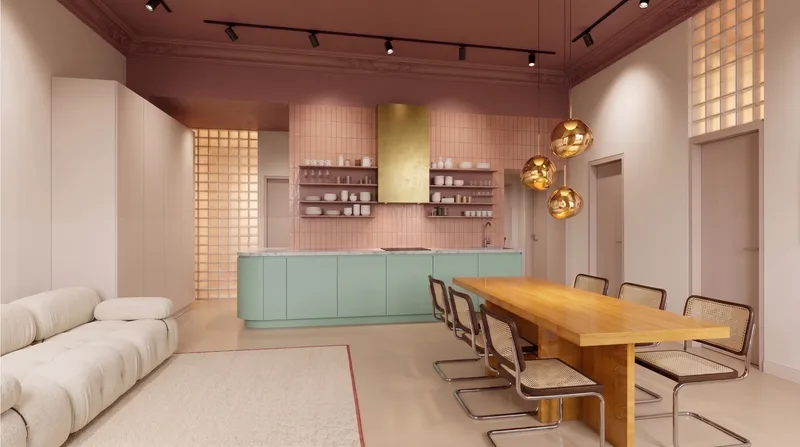
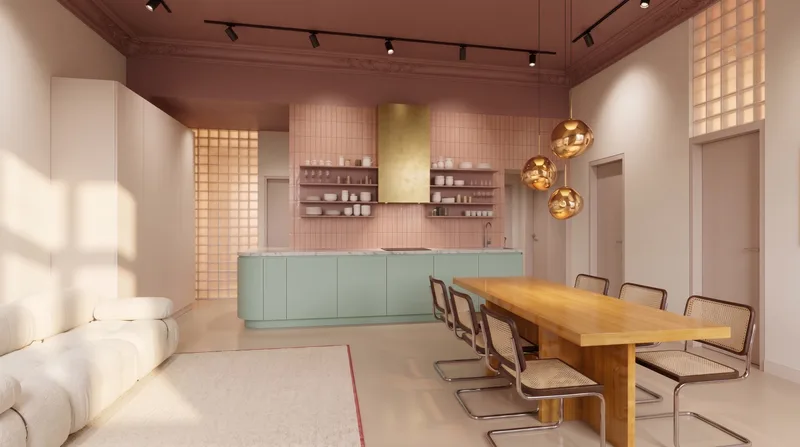
Swap Brass Living, Ferienwohnung, and Alpenkantine assets for Kodak Portra grades.

diff --git a/biig-interior/index.html b/biig-interior/index.html
@@ -5029,7 +5029,7 @@
             ],
             images: [
               "../assets/interior/Pannierstr11-260830-BIIG-VIS-01_b.jpg",
-              "../assets/interior/Pannierstr11-260903-BIIG-VIS-02_c.jpg",
+              "../assets/interior/Pannierstr11-260903-BIIG-VIS-02_c.jpg?v=kodak",
             ],
           },
           zweihaeuser: {
@@ -5407,7 +5407,7 @@
               "../assets/interior/geisenheim.jpeg",
               "../assets/interior/geisenheim-gedecktertisch.png",
               "../assets/interior/geisenheim-sundowner.png",
-              "../assets/interior/alpenkantine-V01.png?v=2",
+              "../assets/interior/alpenkantine-V01.png?v=kodak",
               "../assets/interior/alpenkantine-V2.png",
             ],
           },
@@ -5803,7 +5803,7 @@
             captionEn: "Hair salon, Berlin-Kreuzberg 2027",
           },
           {
-            src: "../assets/interior/Pannierstr11-260903-BIIG-VIS-02_c.jpg",
+            src: "../assets/interior/Pannierstr11-260903-BIIG-VIS-02_c.jpg?v=kodak",
             altDe: "Ferienwohnung mit Stuck, Licht und behaglichem Interior",
             altEn: "Holiday apartment with stucco, light, and a cozy interior",
             captionDe: "Ferienwohnung, Berlin-Neukölln 2027",
@@ -5845,7 +5845,7 @@
             captionEn: "Hamburg Elbchaussee, apartment visual",
           },
           {
-            src: "../assets/interior/BrassLiving-walkincloset01.png",
+            src: "../assets/interior/BrassLiving-walkincloset03.png?v=kodak",
             altDe: "Begehbarer Kleiderschrank mit Messing und warmem Licht",
             altEn: "Walk-in closet with brass details and warm light",
             captionDe: "Brass Living, Berlin 2026",
@@ -5880,7 +5880,7 @@
             captionEn: "Living and dining room, Berlin 2026",
           },
           {
-            src: "../assets/interior/alpenkantine-V01.png?v=2",
+            src: "../assets/interior/alpenkantine-V01.png?v=kodak",
             altDe: "Alpenkantine in Hamburg-Eimsbüttel, Gastraum mit Markenauftritt",
             altEn: "Alpenkantine in Hamburg-Eimsbüttel, hospitality space with brand presence",
             captionDe: "Alpenkantine, Hamburg 2009",
